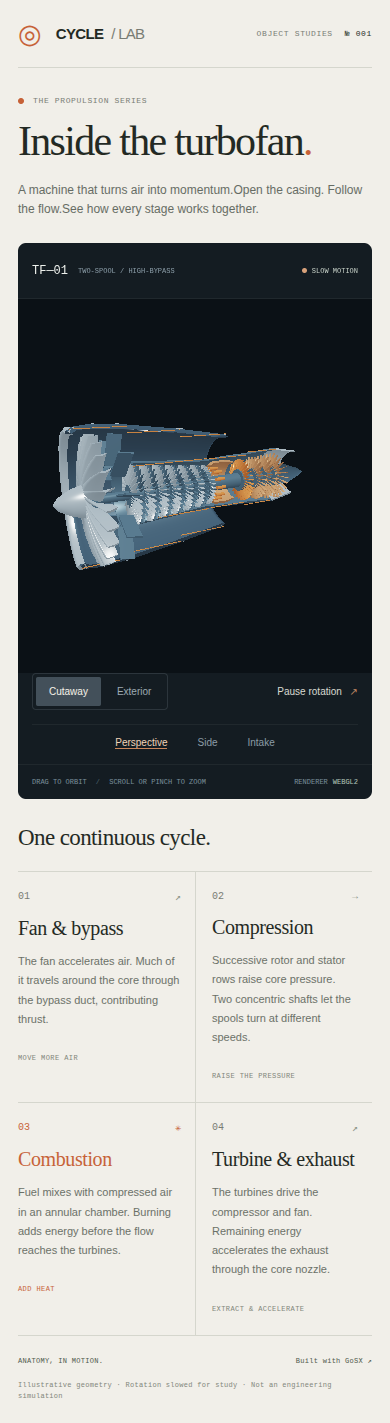
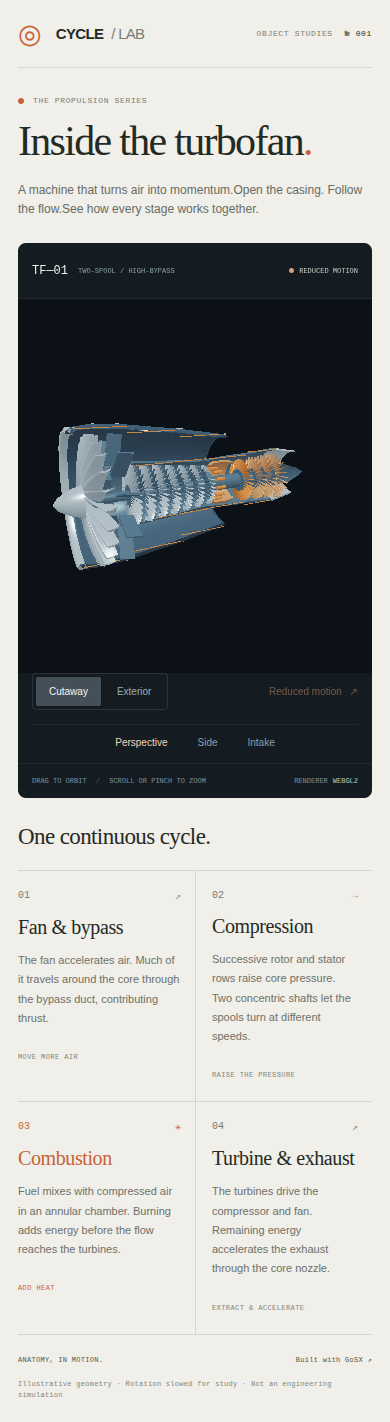
fix(turbofan): update controls without refreshing the scene

diff --git a/examples/turbofan/public/turbofan.css b/examples/turbofan/public/turbofan.css
@@ -1,7 +1,9 @@
 :root{color-scheme:light;--paper:#f1efe9;--ink:#232923;--muted:#777b73;--line:#d5d6cd;--accent:#c66137;--screen:#141c22;--screen-text:#c9d3d9;font-family:Arial,Helvetica,sans-serif;font-synthesis:none}
-*{box-sizing:border-box}body{margin:0;background:var(--paper);color:var(--ink)}a{color:inherit;text-decoration:none}button,a{-webkit-tap-highlight-color:transparent}a:focus-visible{outline:2px solid var(--accent);outline-offset:5px}main{width:min(1440px,100%);padding:0 56px;margin:0 auto}.masthead{height:94px;display:flex;align-items:center;justify-content:space-between;border-bottom:1px solid var(--line)}.wordmark{display:flex;align-items:center;gap:8px;font-size:18px;font-weight:700;letter-spacing:-.7px}.brand-mark{font-size:32px;color:var(--accent);margin-right:7px;font-weight:400}.wordmark-light{font-weight:400;color:var(--muted)}.edition,.eyebrow,.model-id,.model-description,.motion-state,.viewer-footnote,.section-heading>p,.stage-number,.stage-detail,.colophon{font-family:"Courier New",monospace;font-size:11px;font-weight:400;letter-spacing:.08em}.edition{display:flex;gap:30px;color:var(--muted)}.edition span{color:var(--ink)}.introduction{display:flex;align-items:flex-end;justify-content:space-between;gap:30px;padding:43px 0 35px}.eyebrow{display:flex;gap:9px;align-items:center;font-size:10px;color:var(--muted);margin:0 0 19px}.accent-dot{width:6px;height:6px;border-radius:50%;background:var(--accent)}h1{font:normal clamp(38px,5.1vw,73px)/1.06 Georgia,"Times New Roman",serif;letter-spacing:-3.2px;margin:0}h1>span{color:var(--accent)}.intro-copy{font-size:13px;line-height:1.8;color:#656b63;margin:0 0 2px;min-width:275px}.viewer{position:relative;background:var(--screen);color:var(--screen-text);border-radius:8px;overflow:hidden}.viewer-heading{height:62px;display:flex;align-items:center;justify-content:space-between;padding:0 28px;position:relative;z-index:1;border-bottom:1px solid #ffffff0d}.viewer-heading>div{display:flex;align-items:center;gap:18px}.model-id{color:#edf0ec;font-size:15px;letter-spacing:0}.model-description{font-size:9px;color:#8b9da8}.motion-state{display:flex;align-items:center;gap:8px;font-size:9px;color:#c5cfc6}.status-dot{width:5px;height:5px;border-radius:50%;background:#d8a17a}.scene-area{height:460px;position:relative}.scene-area>div,.scene-area [data-gosx-scene3d]{width:100%!important;height:100%!important}.scene-area canvas{display:block;touch-action:none}.viewer-controls{display:flex;align-items:center;justify-content:space-between;gap:20px;padding:0 28px 14px}.segmented{display:flex;gap:3px;border:1px solid #8a9da333;border-radius:4px;padding:3px}.segmented a{font-size:11px;padding:10px 18px;color:#9dabb3;border-radius:2px}.segmented a[data-active="true"]{color:#f7f3e9;background:#43505a}.segmented a:hover{background:#35414a}.camera-controls{display:flex;gap:24px;font-size:11px;color:#8c9da8}.camera-controls a{padding:12px 0;border-bottom:1px solid transparent}.camera-controls a[data-active="true"]{color:#f2d5b9;border-bottom-color:#ca865b}.camera-controls a:hover,.motion-control:hover{color:#fff}.motion-control{font-size:11px;padding:10px 0;color:#dadbd2;min-width:122px}.motion-control span{margin-left:12px;color:#c58b65}.viewer-footnote{display:flex;align-items:center;justify-content:space-between;padding:15px 28px;border-top:1px solid #ffffff0d;color:#7c919e;font-size:8px;letter-spacing:.08em}.separator{margin:0 9px;color:#4d636f}.renderer-label{display:flex;gap:12px}.renderer-label output{color:#b6c9bd;text-transform:uppercase}.fallback{padding:12px 28px;color:#efba91;font-size:13px}.section-heading{display:flex;justify-content:space-between;align-items:center;padding:33px 0 23px}.section-heading h2{font:normal 26px Georgia,serif;letter-spacing:-.6px;margin:0}.section-heading>p{font-size:9px;color:var(--muted);margin:0}.section-heading>p span{margin:0 18px;color:#9d9f95}.stage-grid{display:grid;grid-template-columns:repeat(4,1fr);border-top:1px solid var(--line);border-bottom:1px solid var(--line)}.stage{padding:22px 24px 23px 0}.stage+.stage{border-left:1px solid var(--line);padding-left:24px}.stage-number{display:flex;justify-content:space-between;color:var(--muted);font-size:10px;letter-spacing:0}.stage-number>span{color:#8a9284}.stage h3{font:normal 22px Georgia,serif;letter-spacing:-.4px;margin:18px 0 12px}.stage p{font-size:12px;line-height:1.75;color:#6a7067;margin:0 0 23px;max-width:250px;min-height:64px}.stage-detail{font-size:8px;letter-spacing:.06em;color:#7e8478}.hot-stage h3,.hot-stage .stage-number,.hot-stage .stage-number>span,.hot-stage .stage-detail{color:var(--accent)}.colophon{display:flex;justify-content:space-between;align-items:center;gap:25px;font-size:8px;line-height:1.7;color:#808579;padding:22px 0 30px;letter-spacing:.04em}.colophon p{margin:0}.colophon>p:first-child{color:#4c5748}.colophon a{white-space:nowrap;color:#4c5748}.colophon a:hover{text-decoration:underline}
+*{box-sizing:border-box}body{margin:0;background:var(--paper);color:var(--ink)}a{color:inherit;text-decoration:none}button{font:inherit;cursor:pointer}button,a{-webkit-tap-highlight-color:transparent}a:focus-visible,button:focus-visible{outline:2px solid var(--accent);outline-offset:5px}main{width:min(1440px,100%);padding:0 56px;margin:0 auto}.masthead{height:94px;display:flex;align-items:center;justify-content:space-between;border-bottom:1px solid var(--line)}.wordmark{display:flex;align-items:center;gap:8px;font-size:18px;font-weight:700;letter-spacing:-.7px}.brand-mark{font-size:32px;color:var(--accent);margin-right:7px;font-weight:400}.wordmark-light{font-weight:400;color:var(--muted)}.edition,.eyebrow,.model-id,.model-description,.motion-state,.viewer-footnote,.section-heading>p,.stage-number,.stage-detail,.colophon{font-family:"Courier New",monospace;font-size:11px;font-weight:400;letter-spacing:.08em}.edition{display:flex;gap:30px;color:var(--muted)}.edition span{color:var(--ink)}.introduction{display:flex;align-items:flex-end;justify-content:space-between;gap:30px;padding:43px 0 35px}.eyebrow{display:flex;gap:9px;align-items:center;font-size:10px;color:var(--muted);margin:0 0 19px}.accent-dot{width:6px;height:6px;border-radius:50%;background:var(--accent)}h1{font:normal clamp(38px,5.1vw,73px)/1.06 Georgia,"Times New Roman",serif;letter-spacing:-3.2px;margin:0}h1>span{color:var(--accent)}.intro-copy{font-size:13px;line-height:1.8;color:#656b63;margin:0 0 2px;min-width:275px}.viewer{position:relative;background:var(--screen);color:var(--screen-text);border-radius:8px;overflow:hidden}.viewer-heading{height:62px;display:flex;align-items:center;justify-content:space-between;padding:0 28px;position:relative;z-index:1;border-bottom:1px solid #ffffff0d}.viewer-heading>div{display:flex;align-items:center;gap:18px}.model-id{color:#edf0ec;font-size:15px;letter-spacing:0}.model-description{font-size:9px;color:#8b9da8}.motion-state{display:flex;align-items:center;gap:8px;font-size:9px;color:#c5cfc6}.status-dot{width:5px;height:5px;border-radius:50%;background:#d8a17a}.scene-area{height:460px;position:relative}.scene-area>div,.scene-area [data-gosx-scene3d]{width:100%!important;height:100%!important}.scene-area canvas{display:block;touch-action:none}.viewer-controls{display:flex;align-items:center;justify-content:space-between;gap:20px;padding:0 28px 14px}.segmented{display:flex;gap:3px;border:1px solid #8a9da333;border-radius:4px;padding:3px}.segmented button{border:0;background:transparent;font-size:11px;padding:10px 18px;color:#9dabb3;border-radius:2px}.segmented button[aria-pressed="true"]{color:#f7f3e9;background:#43505a}.segmented button:hover{background:#35414a}.camera-controls{display:flex;gap:24px;font-size:11px;color:#8c9da8}.camera-controls button{background:transparent;border:0;color:inherit;padding:12px 0;border-bottom:1px solid transparent}.camera-controls button[aria-pressed="true"]{color:#f2d5b9;border-bottom-color:#ca865b}.camera-controls button:hover,.motion-control:hover{color:#fff}.motion-control{font-size:11px;padding:10px 0;color:#dadbd2;min-width:122px}.motion-control span{margin-left:12px;color:#c58b65}.viewer-footnote{display:flex;align-items:center;justify-content:space-between;padding:15px 28px;border-top:1px solid #ffffff0d;color:#7c919e;font-size:8px;letter-spacing:.08em}.separator{margin:0 9px;color:#4d636f}.renderer-label{display:flex;gap:12px}.renderer-label output{color:#b6c9bd;text-transform:uppercase}.fallback{padding:12px 28px;color:#efba91;font-size:13px}.section-heading{display:flex;justify-content:space-between;align-items:center;padding:33px 0 23px}.section-heading h2{font:normal 26px Georgia,serif;letter-spacing:-.6px;margin:0}.section-heading>p{font-size:9px;color:var(--muted);margin:0}.section-heading>p span{margin:0 18px;color:#9d9f95}.stage-grid{display:grid;grid-template-columns:repeat(4,1fr);border-top:1px solid var(--line);border-bottom:1px solid var(--line)}.stage{padding:22px 24px 23px 0}.stage+.stage{border-left:1px solid var(--line);padding-left:24px}.stage-number{display:flex;justify-content:space-between;color:var(--muted);font-size:10px;letter-spacing:0}.stage-number>span{color:#8a9284}.stage h3{font:normal 22px Georgia,serif;letter-spacing:-.4px;margin:18px 0 12px}.stage p{font-size:12px;line-height:1.75;color:#6a7067;margin:0 0 23px;max-width:250px;min-height:64px}.stage-detail{font-size:8px;letter-spacing:.06em;color:#7e8478}.hot-stage h3,.hot-stage .stage-number,.hot-stage .stage-number>span,.hot-stage .stage-detail{color:var(--accent)}.colophon{display:flex;justify-content:space-between;align-items:center;gap:25px;font-size:8px;line-height:1.7;color:#808579;padding:22px 0 30px;letter-spacing:.04em}.colophon p{margin:0}.colophon>p:first-child{color:#4c5748}.colophon a{white-space:nowrap;color:#4c5748}.colophon a:hover{text-decoration:underline}
 @media(min-width:1600px){.scene-area{height:510px}}
 @media(max-width:1050px){main{padding:0 30px}.masthead{height:78px}.introduction{padding:34px 0 28px}h1{letter-spacing:-2px}.intro-copy{min-width:220px;font-size:12px}.scene-area{height:420px}.viewer-heading,.viewer-footnote{padding-left:20px;padding-right:20px}.viewer-controls{padding-left:20px;padding-right:20px;gap:14px}.camera-controls{gap:14px}.stage{padding-right:18px}.stage+.stage{padding-left:18px}.stage h3{font-size:19px}.stage p{min-height:106px}.colophon{flex-wrap:wrap}}
-@media(max-width:700px){main{padding:0 18px}.masthead{height:68px}.wordmark{font-size:15px}.brand-mark{font-size:27px}.edition{font-size:8px;gap:12px}.introduction{display:block;padding:28px 0 23px}.eyebrow{font-size:8px;margin-bottom:14px}h1{font-size:42px;letter-spacing:-1.7px}.intro-copy{margin:17px 0 0;font-size:12px;line-height:1.65}.intro-copy br{display:none}.viewer-heading{height:56px;padding:0 14px}.viewer-heading>div{gap:10px}.model-id{font-size:12px}.model-description{font-size:7px;letter-spacing:0}.motion-state{font-size:7px;letter-spacing:0;gap:5px}.scene-area{height:330px}.viewer-controls{padding:0 14px 15px;gap:13px;flex-wrap:wrap}.segmented a{font-size:10px;padding:9px 13px}.motion-control{font-size:10px;min-width:0;margin-left:auto}.motion-control span{margin-left:5px}.camera-controls{order:3;flex-basis:100%;justify-content:center;gap:30px;font-size:10px;border-top:1px solid #ffffff0d;margin-top:1px}.camera-controls a{padding:12px 0 0}.viewer-footnote{font-size:7px;padding:13px 14px;gap:8px;letter-spacing:0}.renderer-label{gap:5px}.separator{margin:0 5px}.section-heading{padding:26px 0 20px}.section-heading h2{font-size:23px}.section-heading>p{display:none}.stage-grid{grid-template-columns:repeat(2,1fr)}.stage,.stage+.stage{padding:19px 14px 20px 0}.stage:nth-child(even){padding-left:16px;border-left:1px solid var(--line)}.stage:nth-child(odd){border-left:0}.stage:nth-child(n+3){border-top:1px solid var(--line)}.stage h3{font-size:20px;margin-top:14px}.stage p{min-height:0;font-size:11px;margin-bottom:17px}.stage-detail{font-size:7px}.colophon{align-items:flex-start;gap:12px;padding:20px 0;font-size:7px}.colophon>p:nth-child(2){order:3;flex-basis:100%}.colophon a{margin-left:auto}}
+@media(max-width:700px){main{padding:0 18px}.masthead{height:68px}.wordmark{font-size:15px}.brand-mark{font-size:27px}.edition{font-size:8px;gap:12px}.introduction{display:block;padding:28px 0 23px}.eyebrow{font-size:8px;margin-bottom:14px}h1{font-size:42px;letter-spacing:-1.7px}.intro-copy{margin:17px 0 0;font-size:12px;line-height:1.65}.intro-copy br{display:none}.viewer-heading{height:56px;padding:0 14px}.viewer-heading>div{gap:10px}.model-id{font-size:12px}.model-description{font-size:7px;letter-spacing:0}.motion-state{font-size:7px;letter-spacing:0;gap:5px}.scene-area{height:330px}.viewer-controls{padding:0 14px 15px;gap:13px;flex-wrap:wrap}.segmented button{border:0;background:transparent;font-size:10px;padding:9px 13px}.motion-control{font-size:10px;min-width:0;margin-left:auto}.motion-control span{margin-left:5px}.camera-controls{order:3;flex-basis:100%;justify-content:center;gap:30px;font-size:10px;border-top:1px solid #ffffff0d;margin-top:1px}.camera-controls button{background:transparent;border:0;color:inherit;padding:12px 0 0}.viewer-footnote{font-size:7px;padding:13px 14px;gap:8px;letter-spacing:0}.renderer-label{gap:5px}.separator{margin:0 5px}.section-heading{padding:26px 0 20px}.section-heading h2{font-size:23px}.section-heading>p{display:none}.stage-grid{grid-template-columns:repeat(2,1fr)}.stage,.stage+.stage{padding:19px 14px 20px 0}.stage:nth-child(even){padding-left:16px;border-left:1px solid var(--line)}.stage:nth-child(odd){border-left:0}.stage:nth-child(n+3){border-top:1px solid var(--line)}.stage h3{font-size:20px;margin-top:14px}.stage p{min-height:0;font-size:11px;margin-bottom:17px}.stage-detail{font-size:7px}.colophon{align-items:flex-start;gap:12px;padding:20px 0;font-size:7px}.colophon>p:nth-child(2){order:3;flex-basis:100%}.colophon a{margin-left:auto}}
 @media(max-width:550px){.scene-area{height:calc(100vw - 16px)}}
 @media(prefers-reduced-motion:reduce){*{scroll-behavior:auto}}
+
+.presentation-controls,.viewer-controls>[data-gosx-island]{display:contents}.motion-control{background:transparent;border:0;text-align:left}.motion-control:disabled{opacity:.55;cursor:default}.paused-label,.reduced-label{display:none}.motion-control[aria-pressed="true"] .playing-label{display:none}.motion-control[aria-pressed="true"] .paused-label{display:inline}.viewer:has([data-gosx-scene3d-animation-state="paused"]) .motion-state .playing-label{display:none}.viewer:has([data-gosx-scene3d-animation-state="paused"]) .motion-state .paused-label{display:inline}.viewer:has([data-gosx-scene3d-animation-state="reduced-motion"]) .playing-label,.viewer:has([data-gosx-scene3d-animation-state="reduced-motion"]) .paused-label{display:none}.viewer:has([data-gosx-scene3d-animation-state="reduced-motion"]) .reduced-label{display:inline}

diff --git a/examples/turbofan/app/program.go b/examples/turbofan/app/program.go
@@ -3,6 +3,7 @@ package app
 import (
 	"fmt"
 	"math"
+	"strings"
 
 	"m31labs.dev/gosx/scene"
 )
@@ -11,7 +12,6 @@ import (
 // is an illustrative two-spool engine; geometry and speeds are not engineering data.
 type Options struct {
 	Exterior bool
-	Paused   bool
 	View     string
 	Backend  string
 }
@@ -28,9 +28,6 @@ var (
 // Only the two complete rotor assemblies spin; no per-blade spin is copied.
 func Turbofan(options Options) scene.Props {
 	lowSpeed, highSpeed := .48, .82
-	if options.Paused {
-		lowSpeed, highSpeed = 0, 0
-	}
 	low := []scene.Node{
 		lathe("spinner", []scene.LathePoint{{Radius: .02, Y: -5.1}, {Radius: .22, Y: -4.95}, {Radius: .44, Y: -4.55}, {Radius: .56, Y: -4.12}, {Radius: .54, Y: -3.85}}, titanium, false),
 		shaft("low-shaft", -3.9, 4.15, .16, steel),
@@ -60,7 +57,7 @@ func Turbofan(options Options) scene.Props {
 		scene.Group{ID: "low-spool", Spin: scene.Rotate(lowSpeed, 0, 0), Children: low},
 		scene.Group{ID: "high-spool", Spin: scene.Rotate(highSpeed, 0, 0), Children: high},
 	}
-	cut := !options.Exterior
+	cut := true
 	// Closed profiles give the nacelle real wall thickness. In section mode the
 	// near half is omitted in the generated geometry, rather than made transparent.
 	nodes = append(nodes,
@@ -94,28 +91,85 @@ func Turbofan(options Options) scene.Props {
 		for i, edge := range []struct{ x, y, radius float64 }{{-4.4, -2.6, 2.35}, {-2.6, -.7, 2.13}, {-.7, 1.2, 1.88}, {-2.9, .4, 1.0}, {.4, 2.2, .98}, {2.2, 3.65, 1.1}} {
 			// Thin orange rails mark the two cut faces without obscuring the machinery.
 			for _, sign := range []float64{-1, 1} {
-				nodes = append(nodes, scene.Mesh{ID: fmt.Sprintf("section-edge-%d-%g", i, sign), Geometry: scene.BoxGeometry{Width: edge.y - edge.x, Height: .025, Depth: .025}, Material: copper, Position: scene.Vec3((edge.x+edge.y)/2, sign*edge.radius, 0)})
+				nodes = append(nodes, scene.Mesh{ID: fmt.Sprintf("section-edge-%d-%g", i, sign), Geometry: scene.BoxGeometry{Width: edge.y - edge.x, Height: .025, Depth: .025}, Material: copper, Position: scene.Vec3((edge.x+edge.y)/2, sign*edge.radius, 0), Visible: scene.Bool(!options.Exterior)})
 			}
 		}
 	}
-	camera := scene.Vec3(-5.9, 3.6, 11.3)
-	switch options.View {
-	case "side":
-		camera = scene.Vec3(-.1, 1.2, 13.5)
-	case "intake":
-		camera = scene.Vec3(-11.5, 1.1, 2.2)
+	// Both halves are resident. Casing controls only patch visibility, preserving
+	// geometry buffers, the orbit camera and the current rotor clock.
+	for _, node := range nodes {
+		mesh, ok := node.(scene.Mesh)
+		if !ok || !isCasing(mesh.ID) {
+			continue
+		}
+		geometry := mesh.Geometry.(scene.BufferGeometry)
+		cover := geometry
+		cover.Positions = append([]float64(nil), geometry.Positions...)
+		cover.Normals = append([]float64(nil), geometry.Normals...)
+		cover.Indices = append([]int(nil), geometry.Indices...)
+		for i := 2; i < len(cover.Positions); i += 3 {
+			cover.Positions[i] = -cover.Positions[i]
+			cover.Normals[i] = -cover.Normals[i]
+		}
+		for i := 0; i < len(cover.Indices); i += 3 {
+			cover.Indices[i+1], cover.Indices[i+2] = cover.Indices[i+2], cover.Indices[i+1]
+		}
+		mesh.ID += "-cover"
+		mesh.Geometry = cover
+		mesh.Visible = scene.Bool(options.Exterior)
+		nodes = append(nodes, mesh)
+	}
+	presentation := &scene.Presentation{InputSignal: "$turbofan.presentation", OutputSignal: "$turbofan.presentationState", InitialView: options.View, InitialPeriod: "cutaway", Query: true}
+	if presentation.InitialView == "" {
+		presentation.InitialView = "perspective"
+	}
+	if options.Exterior {
+		presentation.InitialPeriod = "exterior"
+	}
+	for _, view := range []string{"perspective", "side", "intake"} {
+		presentation.Views = append(presentation.Views, scene.PresentationView{ID: view, Camera: scene.CameraIR(viewCamera(view))})
+	}
+	for _, period := range []string{"cutaway", "exterior"} {
+		commands := []scene.Command{}
+		for _, node := range nodes {
+			mesh, ok := node.(scene.Mesh)
+			if !ok {
+				continue
+			}
+			if strings.HasSuffix(mesh.ID, "-cover") || strings.HasPrefix(mesh.ID, "section-edge-") {
+				visible := (period == "exterior") == strings.HasSuffix(mesh.ID, "-cover")
+				commands = append(commands, scene.Command{Kind: scene.CommandSetTransform, ObjectID: mesh.ID, Data: map[string]any{"visible": visible}})
+			}
+		}
+		presentation.Periods = append(presentation.Periods, scene.PresentationPeriod{ID: period, Commands: commands})
 	}
 	return scene.Props{
 		AriaLabel: "Procedural two-spool turbofan. Drag to orbit; scroll or pinch to zoom.",
 		Width:     1280, Height: 540, Responsive: scene.Bool(true), FillHeight: scene.Bool(true), Background: "#010203",
 		Controls: "orbit", ControlTarget: scene.Vec3(-.1, 0, 0), AutoRotate: scene.Bool(false), ControlZoom: scene.Bool(true), ControlMinDistance: 6, ControlMaxDistance: 25,
-		Camera:      scene.PerspectiveCamera{Position: camera, FOV: 32, PortraitFOV: 56, Near: .1, Far: 100},
-		Environment: scene.Environment{AmbientColor: "#dce8f2", AmbientIntensity: .25, ToneMapping: "aces", Exposure: .95},
-		MaxFPS:      30, MaxDevicePixelRatio: 1.5, MaxPixels: 1280 * 720,
+		Camera:       viewCamera(options.View),
+		Presentation: presentation,
+		Environment:  scene.Environment{AmbientColor: "#dce8f2", AmbientIntensity: .25, ToneMapping: "aces", Exposure: .95},
+		MaxFPS:       30, MaxDevicePixelRatio: 1.5, MaxPixels: 1280 * 720,
 		PreferWebGPU: scene.Bool(options.Backend == "webgpu"), ForceWebGL: scene.Bool(options.Backend == "webgl"),
 		UnsupportedMessage: "3D rendering is unavailable in this browser. The component descriptions below explain the engine cycle.",
 		Graph:              scene.NewGraph(nodes...),
 	}
+}
+
+func viewCamera(view string) scene.PerspectiveCamera {
+	position := scene.Vec3(-5.9, 3.6, 11.3)
+	switch view {
+	case "side":
+		position = scene.Vec3(-.1, 1.2, 13.5)
+	case "intake":
+		position = scene.Vec3(-11.5, 1.1, 2.2)
+	}
+	return scene.PerspectiveCamera{Position: position, FOV: 32, PortraitFOV: 56, Near: .1, Far: 100}
+}
+
+func isCasing(id string) bool {
+	return id == "nacelle" || id == "intake-lip" || id == "core-case" || id == "combustor-liner" || id == "exhaust-duct" || strings.HasPrefix(id, "nacelle-joint-")
 }
 
 func lathe(id string, profile []scene.LathePoint, material scene.Material, cut bool) scene.Mesh {

diff --git a/examples/turbofan/app/program_test.go b/examples/turbofan/app/program_test.go
@@ -40,17 +40,18 @@ func TestTurbofanSceneContract(t *testing.T) {
 		if blades != 498 || rows != 18 {
 			t.Fatalf("unexpected blade budget: %d blades in %d rows", blades, rows)
 		}
-		// The far-half shell must actually omit the near side in its geometry.
+		// The near half is resident but hidden in cutaway mode, so switching
+		// presentation needs no geometry replacement or network request.
 		for _, object := range ir.Objects {
-			if object.ID != "nacelle" {
+			if object.ID != "nacelle-cover" {
 				continue
 			}
 			nearSide := false
 			for i := 2; i < len(object.Vertices.Positions); i += 3 {
 				nearSide = nearSide || object.Vertices.Positions[i] > .01
 			}
-			if nearSide != exterior {
-				t.Fatalf("exterior=%v: near-side shell geometry present=%v", exterior, nearSide)
+			if !nearSide || object.Visible == nil || *object.Visible != exterior {
+				t.Fatalf("exterior=%v: near-side shell residency/visibility incorrect", exterior)
 			}
 		}
 		encoded, err := json.Marshal(ir)
@@ -64,7 +65,7 @@ func TestTurbofanSceneContract(t *testing.T) {
 	}
 }
 
-func TestTurbofanPauseAndSharedPivot(t *testing.T) {
+func TestTurbofanSharedPivot(t *testing.T) {
 	ir := Turbofan(Options{}).SceneIR()
 	atStart, err := scene.GroupWorldMatrices(ir.Groups, 0)
 	if err != nil {
@@ -86,35 +87,35 @@ func TestTurbofanPauseAndSharedPivot(t *testing.T) {
 	if atTime["low-spool"] == atTime["high-spool"] {
 		t.Fatal("spools must turn independently")
 	}
-	paused := Turbofan(Options{Paused: true}).SceneIR()
-	if len(paused.Groups) != 0 || len(paused.SpinTracks) != 0 || len(paused.MotionProgram) != 0 {
-		t.Fatal("paused presentation still has an animation driver")
-	}
 }
 
-func TestPresentationLinksKeepOtherChoices(t *testing.T) {
-	data := pageData(url.Values{"view": {"side"}, "shell": {"full"}, "motion": {"paused"}, "backend": {"webgl"}, "unknown": {"discard"}})
-	for _, key := range []string{"cutawayURL", "exteriorURL", "motionURL", "perspectiveURL", "sideURL", "intakeURL"} {
-		u, err := url.Parse(data[key].(string))
-		if err != nil {
-			t.Fatal(err)
+func TestPresentationChangesOnlyVisibility(t *testing.T) {
+	props := Turbofan(Options{})
+	presentation := props.Presentation
+	if presentation.Endpoint != "" || len(presentation.Views) != 3 || len(presentation.Periods) != 2 {
+		t.Fatal("presentation must keep its data on the client")
+	}
+	for _, period := range presentation.Periods {
+		if len(period.Commands) != 22 {
+			t.Fatalf("%s: expected 10 covers and 12 section edges, got %d", period.ID, len(period.Commands))
 		}
-		q := u.Query()
-		if q.Get("unknown") != "" || q.Get("backend") != "webgl" {
-			t.Fatalf("unsafe or lost presentation state in %s", u)
-		}
-		if key != "motionURL" && q.Get("motion") != "paused" {
-			t.Fatalf("lost paused state in %s", u)
-		}
-		if (key == "cutawayURL" || key == "motionURL") && q.Get("view") != "side" {
-			t.Fatalf("lost side camera in %s", u)
+		for _, command := range period.Commands {
+			patch := command.Data.(map[string]any)
+			if command.Kind != scene.CommandSetTransform || len(patch) != 1 {
+				t.Fatalf("casing selection changed more than visibility: %+v", command)
+			}
+			cover := strings.HasSuffix(command.ObjectID, "-cover")
+			if patch["visible"] != ((period.ID == "exterior") == cover) {
+				t.Fatalf("%s has wrong visibility for %s", period.ID, command.ObjectID)
+			}
 		}
 	}
-	if data["motionLabel"] != "Resume rotation" || data["exteriorActive"] != true {
-		t.Fatalf("incorrect paused exterior controls: %v", data["motionLabel"])
+	data := pageData(url.Values{"view": {"side"}, "shell": {"full"}})
+	if data["view"] != "side" || data["period"] != "exterior" {
+		t.Fatal("legacy camera/casing links lost their initial selection")
 	}
-	invalid := pageData(url.Values{"view": {"bad"}, "shell": {"bad"}, "motion": {"bad"}})
-	if invalid["perspectiveActive"] != true || invalid["cutawayActive"] != true || invalid["motionLabel"] != "Pause rotation" {
+	invalid := pageData(url.Values{"view": {"bad"}, "period": {"bad"}})
+	if invalid["view"] != "perspective" || invalid["period"] != "cutaway" {
 		t.Fatal("invalid choices did not fall back to the default study")
 	}
 }

diff --git a/examples/turbofan/app/page.server.go b/examples/turbofan/app/page.server.go
@@ -18,39 +18,18 @@ func init() {
 }
 
 func pageData(query url.Values) map[string]any {
-	options := Options{Exterior: query.Get("shell") == "full", Paused: query.Get("motion") == "paused", View: query.Get("view"), Backend: query.Get("backend")}
+	period := query.Get("period")
+	if period != "exterior" && period != "cutaway" {
+		period = "cutaway"
+		if query.Get("shell") == "full" {
+			period = "exterior"
+		}
+	}
+	options := Options{Exterior: period == "exterior", View: query.Get("view"), Backend: query.Get("backend")}
 	if options.View != "side" && options.View != "intake" {
 		options.View = "perspective"
 	}
-	// Only retain recognized presentation parameters in navigation links.
-	q := url.Values{"view": {options.View}}
-	if options.Exterior {
-		q.Set("shell", "full")
-	}
-	if options.Paused {
-		q.Set("motion", "paused")
-	}
-	if options.Backend == "webgl" || options.Backend == "webgpu" {
-		q.Set("backend", options.Backend)
-	}
-	link := func(key, value string) string {
-		copy := url.Values{}
-		for k, v := range q {
-			copy[k] = append([]string(nil), v...)
-		}
-		copy.Set(key, value)
-		return "/?" + copy.Encode()
-	}
-	motionLabel, motionTarget, state := "Pause rotation", "paused", "SLOW MOTION"
-	if options.Paused {
-		motionLabel, motionTarget, state = "Resume rotation", "running", "ROTATION PAUSED"
-	}
 	return map[string]any{
-		"scene": Turbofan(options), "state": state,
-		"motionLabel": motionLabel, "motionURL": link("motion", motionTarget),
-		"cutawayURL": link("shell", "cutaway"), "exteriorURL": link("shell", "full"),
-		"cutawayActive": !options.Exterior, "exteriorActive": options.Exterior,
-		"perspectiveURL": link("view", "perspective"), "sideURL": link("view", "side"), "intakeURL": link("view", "intake"),
-		"perspectiveActive": options.View == "perspective", "sideActive": options.View == "side", "intakeActive": options.View == "intake",
+		"scene": Turbofan(options), "view": options.View, "period": period,
 	}
 }

diff --git a/examples/turbofan/README.md b/examples/turbofan/README.md
@@ -17,9 +17,10 @@ Open <http://localhost:8080>. A development build also works; replace `--prod`
 with `--dev`. Building stages the framework runtime assets. After a build,
 `GOWORK=off go run ./examples/turbofan` runs the source application too.
 
-Drag to orbit and scroll or pinch to zoom. The casing and camera links preserve
-the other presentation choices. Pause switches to the authored static pose;
-resume starts the assembly again. These links make ordinary server requests.
+Drag to orbit and scroll or pinch to zoom. Camera and casing buttons update the existing scene locally, with no page
+navigation or application data requests. Casing changes preserve the camera and
+rotor clock. Pause freezes the current pose; resume continues from that pose.
+Browser Back/Forward restores camera and casing choices.
 The framework also honors the browser's reduced-motion preference.
 
 The model includes a partial nacelle and intake lip, a spinner and 24 fan
@@ -35,8 +36,9 @@ into one indexed `BufferGeometry` per blade row: 498 blades in 18 row meshes,
 about 48,000 triangles overall. This preserves custom airfoils without relying
 on the primitive-only `InstancedMesh` path. Stable IDs and retained `Group.Spin`
 boundaries keep the entire rotor assemblies on their shared shaft axis.
-The default cutaway contains 78 meshes; the exterior contains 66. SceneIR is
-about 2.6 MB before HTTP compression. The scene caps rendering at 30 FPS,
+Both casing halves stay resident in 88 meshes: the cutaway draws 78 and
+the exterior draws 76. Switching casing only changes visibility. SceneIR is
+about 3.0 MB before HTTP compression. The scene caps rendering at 30 FPS,
 1.5 DPR, and 921,600 backing pixels.
 
 This is an illustrative model, not a particular manufacturer's engine or a
@@ -60,8 +62,9 @@ SCENE3D_BROWSER=/path/to/chromium \
 node examples/turbofan/verify.mjs http://127.0.0.1:8080
 ```
 
-The harness checks visible motion, static pixels, casing and camera controls,
-pointer orbit, wheel zoom, query fallbacks, mobile fit, reduced motion, and
+The harness checks visible motion, pause/resume at the current pose, casing and
+camera controls without navigation or data fetches, document/canvas identity,
+Back/Forward, pointer orbit, wheel zoom, query fallbacks, mobile fit, reduced motion, and
 WebGPU selection or an explicit WebGL fallback. It writes the documentation
 preview and local `evidence/` captures with a source-hashed JSON receipt.
 It is test tooling and is never served as application code.
